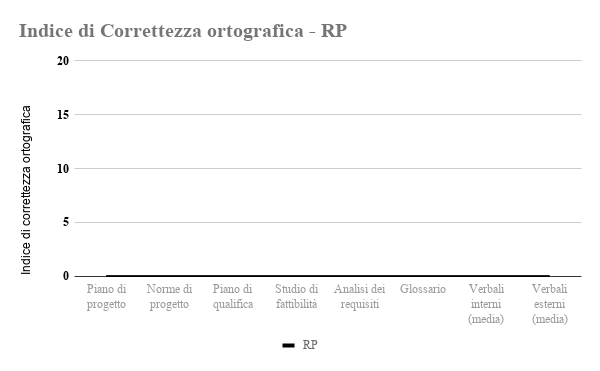
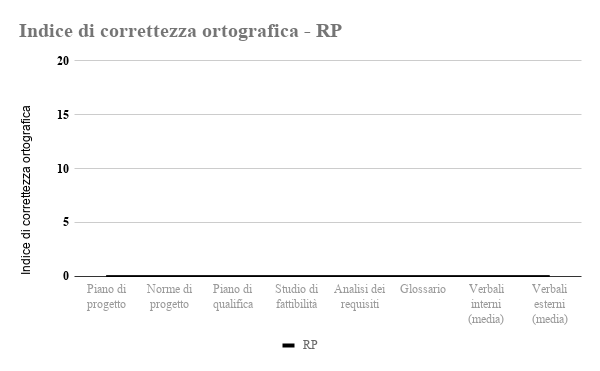
docs: correggi errori maiuscole e aggiungi descrizione grafici

Changed region(s): [[0.15, 0.0593, 0.6, 0.1186]]

diff --git a/esterni/piano-di-qualifica/components/report-verifica.tex b/esterni/piano-di-qualifica/components/report-verifica.tex
@@ -10,12 +10,14 @@ Il test, eseguito automaticamente, impedisce l'approvazione definitiva se vengon
 \begin{figure}[H]
   \centering
   \includegraphics[width=160mm]{correttezzaortografica-RR.png}%
+  \caption{Indice di correttezza ortografica \- RR}%
 \end{figure}
 
 
 \begin{figure}[H]
   \centering
   \includegraphics[width=160mm]{correttezzaortografica-RP.png}%
+  \caption{Indice di correttezza ortografica \- RP}%
 \end{figure}
 
 
@@ -54,6 +56,7 @@ Allo scopo di assicurarci una leggibilità accettabile dei documenti abbiamo mon
 \begin{figure}[H]
   \centering
   \includegraphics[width=160mm]{gulpease-conf.png}%
+  \caption{Indice di Gulpease}%
 \end{figure}
 
 \newpage
@@ -65,6 +68,7 @@ Per assicurarci di rispettare il preventivo, abbiamo monitorato i discostamenti,
 \begin{figure}[H]
   \centering
   \includegraphics[width=160mm]{discostamenti-orari-economici.png}%
+  \caption{Discostamenti orari ed economici}%
 \end{figure}
 % sub:discostamenti_orari_ed_economici (end)
 
@@ -74,6 +78,7 @@ Infine, alla fine di ogni fase misuriamo quante metriche raggiungono valori defi
 \begin{figure}[H]
   \centering
   \includegraphics[width=160mm]{percentualemetricheottimali.png}%
+  \caption{Percentuale di metriche ottimali}%
 \end{figure}
 % sub:metriche_ottimali (end)
 

diff --git a/esterni/piano-di-qualifica/piano-di-qualifica.tex b/esterni/piano-di-qualifica/piano-di-qualifica.tex
@@ -119,12 +119,10 @@
 \newpage
 \section{Valutazioni per il miglioramento}%
 \label{sec:valutazioni_miglioramento}
-
 \subfile{components/valutazioni-miglioramento}
 
-
 \newpage
-\section{Report sull'attività di Verifica}%
+\section{Report sull'attività di verifica}%
 \label{sec:report_verifica}
 
 \subfile{components/report-verifica}
@@ -134,7 +132,5 @@
 \label{sec:tabella_metriche}
 
 \subfile{components/tabella-metriche}
-
-% TODO aggiungere sezione su report?
 
 \end{document}
